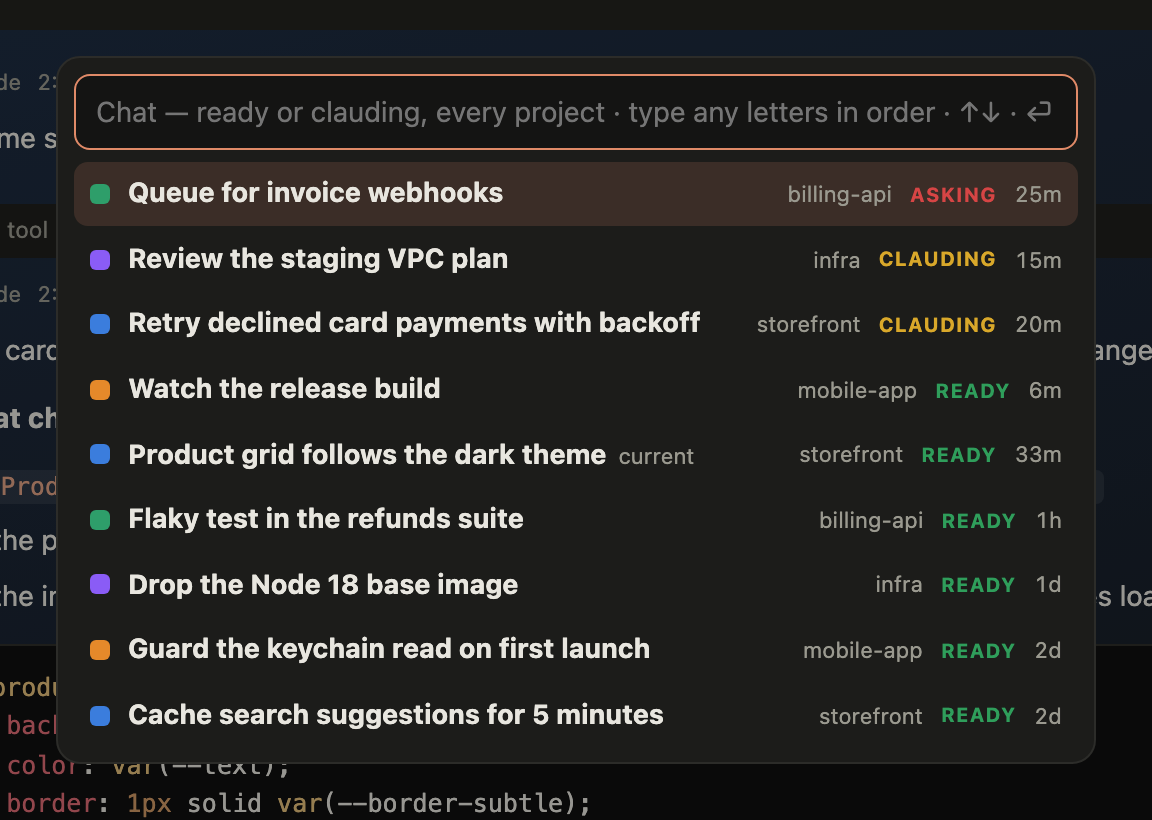
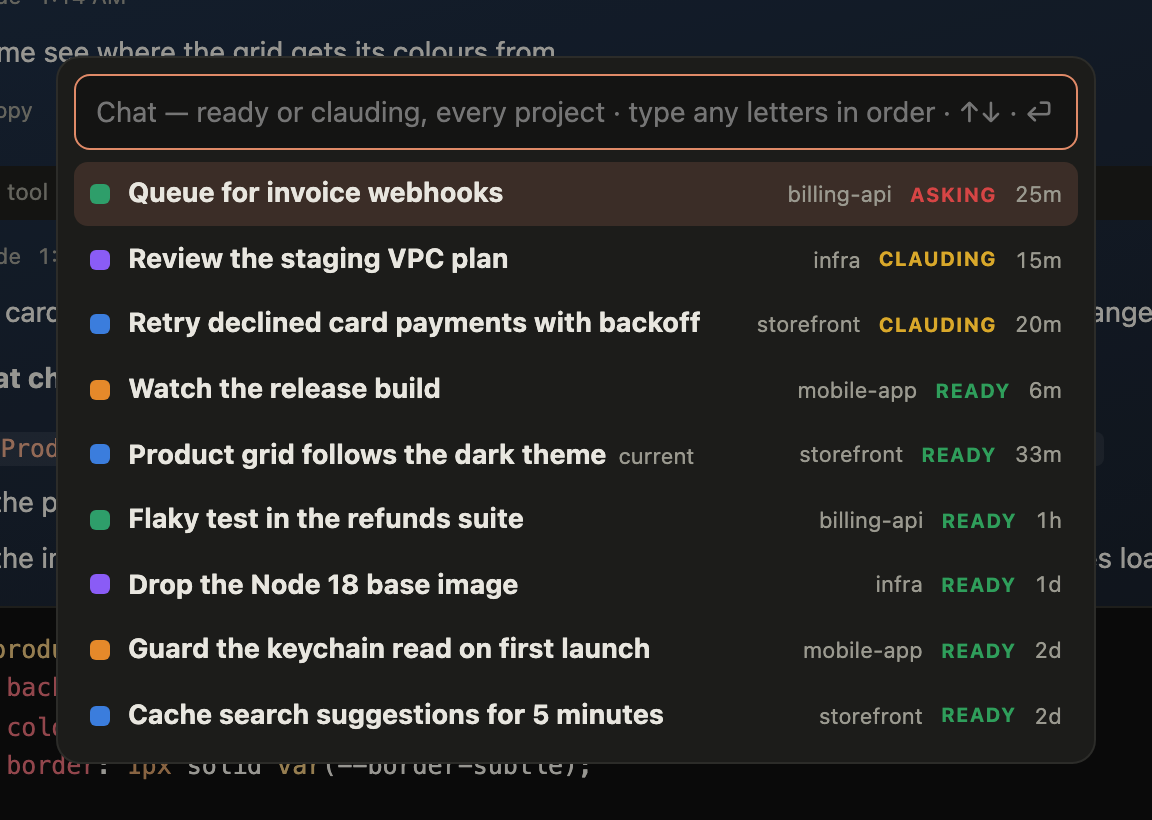
README: the board as it looks now — ink cards, lanes, the status bar
The screenshots redrawn from the made-up board, and the features and settings that changed today in words.

diff --git a/README.md b/README.md
@@ -28,9 +28,10 @@ It reads what Claude Code already writes to `~/.claude` — no plugin, no privat
 
 ## ✨ Features
 
-- 🚦 **Sorted by who owes whom** — asking you first, then working, then ready. *Done* is a tick you give.
-- 💡 **The card's edge tells you why it's busy** — Claude working, sub-agents out, a monitor watching, or a question
-  waiting (the red one, question on the card).
+- 🚦 **Sorted by who owes whom** — in lanes: asking you first, then clauding, then ready. *Done* is a tick you give.
+- 💡 **The card's edge tells you why it's busy** — each card a lit edge in its project's colour; a light runs round it
+  (or down the edge, if you'd rather) while Claude works, one per sub-agent, slower for a monitor; a question pings out
+  in red.
 - 🖥 **Claude in a drawer** — resume any chat in the real Claude Code terminal, inside the board: a chat whose Claude
   has ended says so, and resumes 5 s after you open it (or on a click, if you'd rather). Drawers survive restarts;
   chats running in iTerm or VS Code can be taken over.
@@ -45,7 +46,8 @@ It reads what Claude Code already writes to `~/.claude` — no plugin, no privat
 - 🌑 **Simple colours** — a quieter board: every project in black (or one colour you pick), the states in grey; PRs
   and faces keep their colours, and the accent is left for what needs you.
 - 🪟 **Tabs and splits** — a shell, VS Code Web and GitHub pages beside the chat.
-- 📊 **Plan usage** — your session and weekly limits, or your plan's monthly spend cap, always in view.
+- 📊 **A status bar** — connected, live and clauding chats, drawers, your plan's limits (or its monthly spend cap), and
+  optionally CPU and memory, along the window's foot.
 - ☕ **Keep the Mac awake** — from ···, with the lid closed too (asks for your password); a mark top right while it holds.
 
 <table>
@@ -98,7 +100,7 @@ and `~/Library/Application Support/peixAIrada` to forget your setup and the boar
 
 **Settings** — ⌘, or ··· in the chat's header:
 
-- **Board** — notifications, simple colours (every project in black, or one colour you pick, the states in grey, for a quieter board), card size, ⌥ as Meta.
+- **Board** — notifications, simple colours (every project in black, or one colour you pick, the states in grey, for a quieter board), the edge light, the status bar and what it shows, a floating header, card size, ⌥ as Meta.
 - **Setup** — your repo folders and their GitHub org (⌥⌘N lists every repo and clones the ones you don't have), the
   project ⌥⌘O starts a chat in, a short name and a colour where Peacock has none, per project, and your Jira site,
   email and API token (the token goes to your keychain, never into the file).
